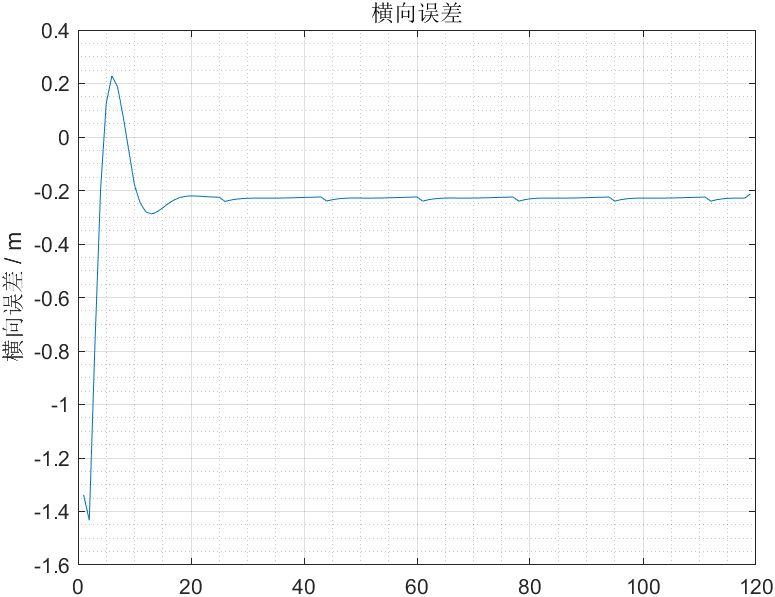
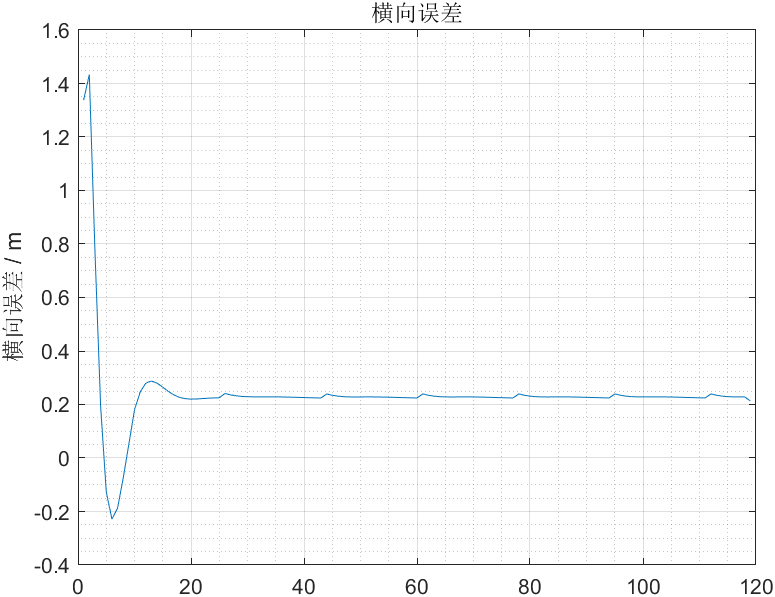
更新

diff --git a/Pure_Pursuit.m b/Pure_Pursuit.m
@@ -17,9 +17,8 @@ dt = 0.1;           % 时间间隔，单位：s
 L = 2.9;            % 车辆轴距，单位：m
 
 % 纯跟踪本质是一个P控制器
-Ki = 0.0;           % 积分调节系数
+Ki = 0.2;           % 积分调节系数
 Err_integ = 0;
-
 
 % 绘制参考轨迹
 figure
@@ -64,7 +63,7 @@ while idx < sizeOfRefPos
 
     % 前轮转角 PI控制
     Err_integ = Err_integ + latError * dt;
-    delta = delta - Ki * Err_integ;
+    delta = delta + Ki * Err_integ;
     
     % 如果误差过大，退出循迹
     if abs(latError) > 3
@@ -150,8 +149,8 @@ function [delta,latError] = pure_pursuit_control(lookaheadPoint,idx,pos, heading
     Ld = Kv*v + Ld0;
 
     % 求位置、航向角的误差
-    x_error  = pos(1) - Point_temp(1,1);
-    y_error = pos(2) - Point_temp(1,2);
+    x_error  = Point_temp(1,1) - pos(1);
+    y_error = Point_temp(1,2) - pos(2);
     heading_r = refHeading(idx);
     % 根据百度Apolo，计算横向误差
 %     latError = y_error*cos(heading_r) - x_error*sin(heading_r);

diff --git a/README.md b/README.md
@@ -6,7 +6,7 @@
 
 ## 纯跟踪算法本质
 
-参考人类驾驶员的行为，以车的后轴为基点，通过控制前轮的偏角delta，使车辆沿一条经过预瞄点的**圆弧**行驶。  
+参考人类驾驶员的行为，以车的后轴为基点，通过控制前轮的偏角delta，使车辆沿一条经过预瞄点的**圆弧**行驶，跟踪效果将由ld决定，如何设计ld也是算法的改进方向之一。  
 预瞄点的引入使得控制更加平顺，普通PID控制跟踪的是离车辆最近的轨迹点，而纯跟踪法跟踪的是预瞄点。  
 纯跟踪本质是一个**P控制器**，对车辆进行**横向控制**，代码示例中的横向误差如图所示：  
 ![横向误差](./imgs/2.png)  
